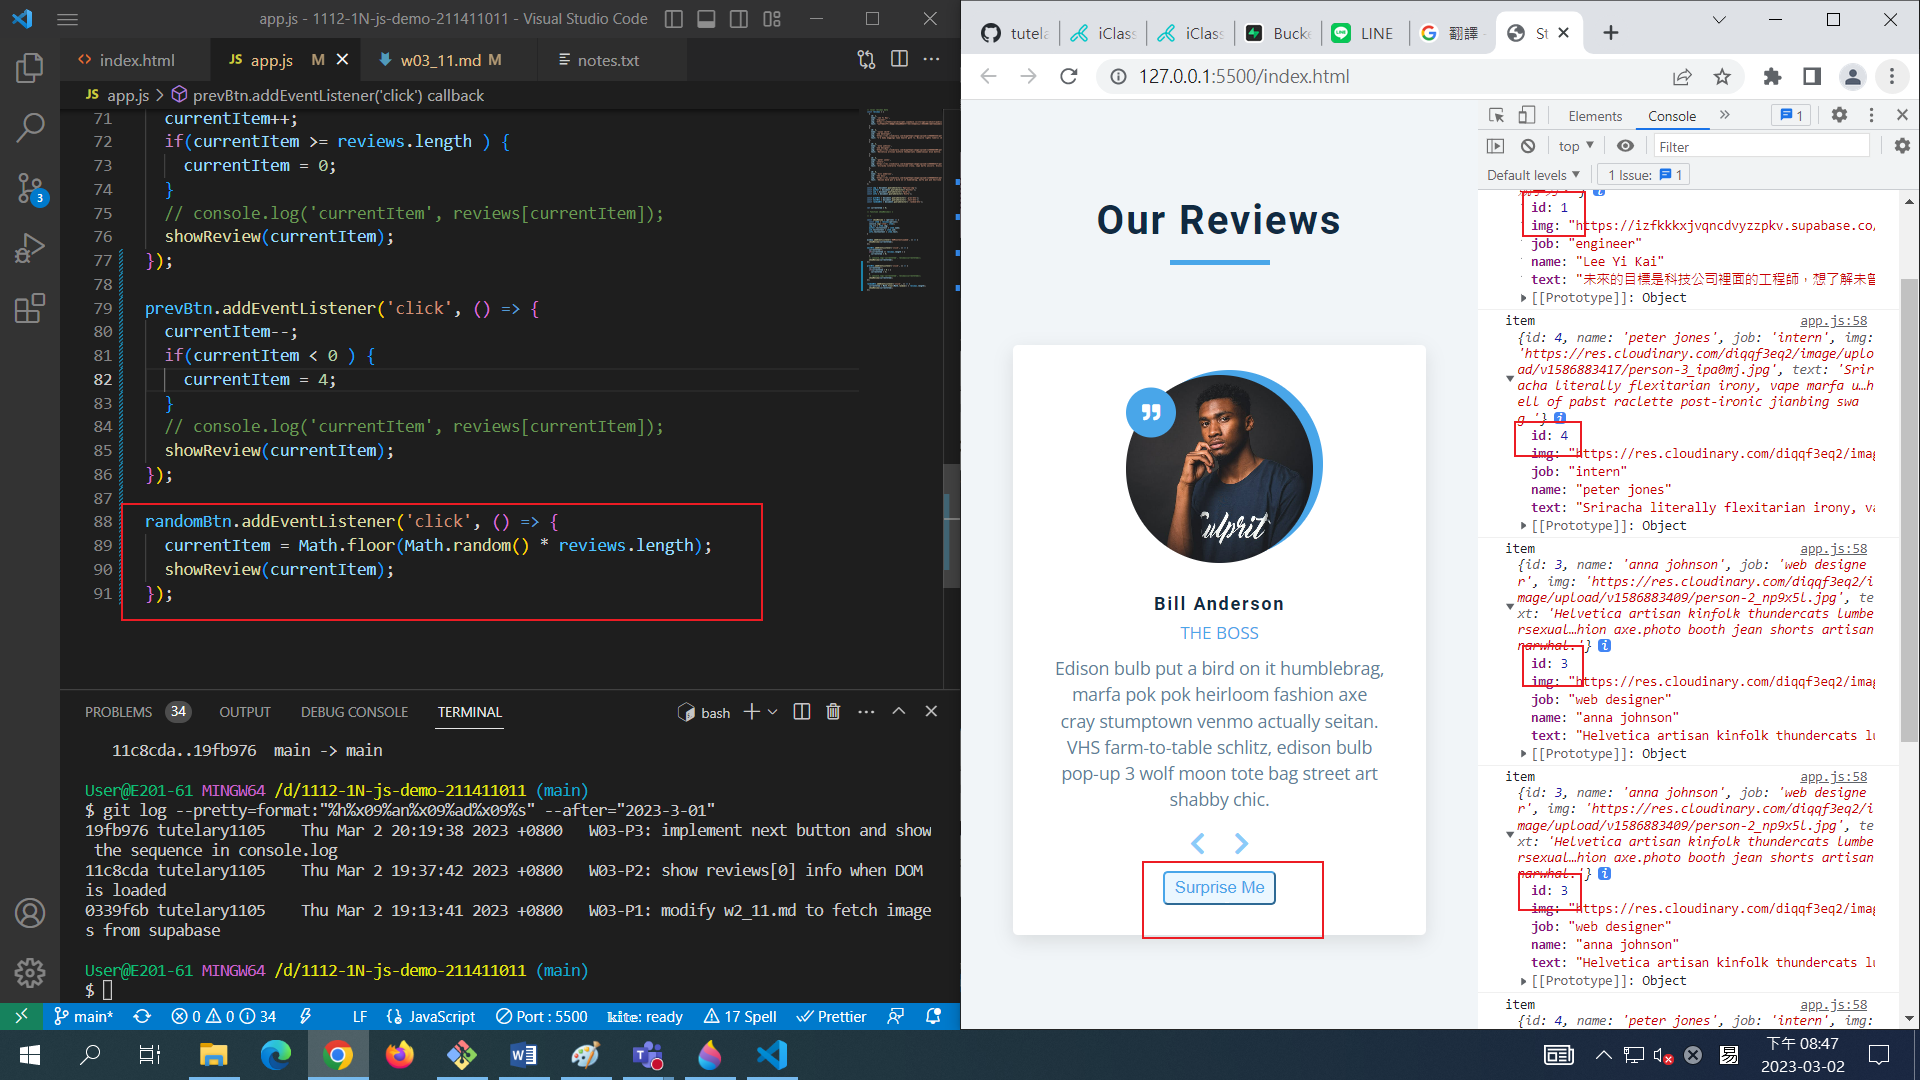
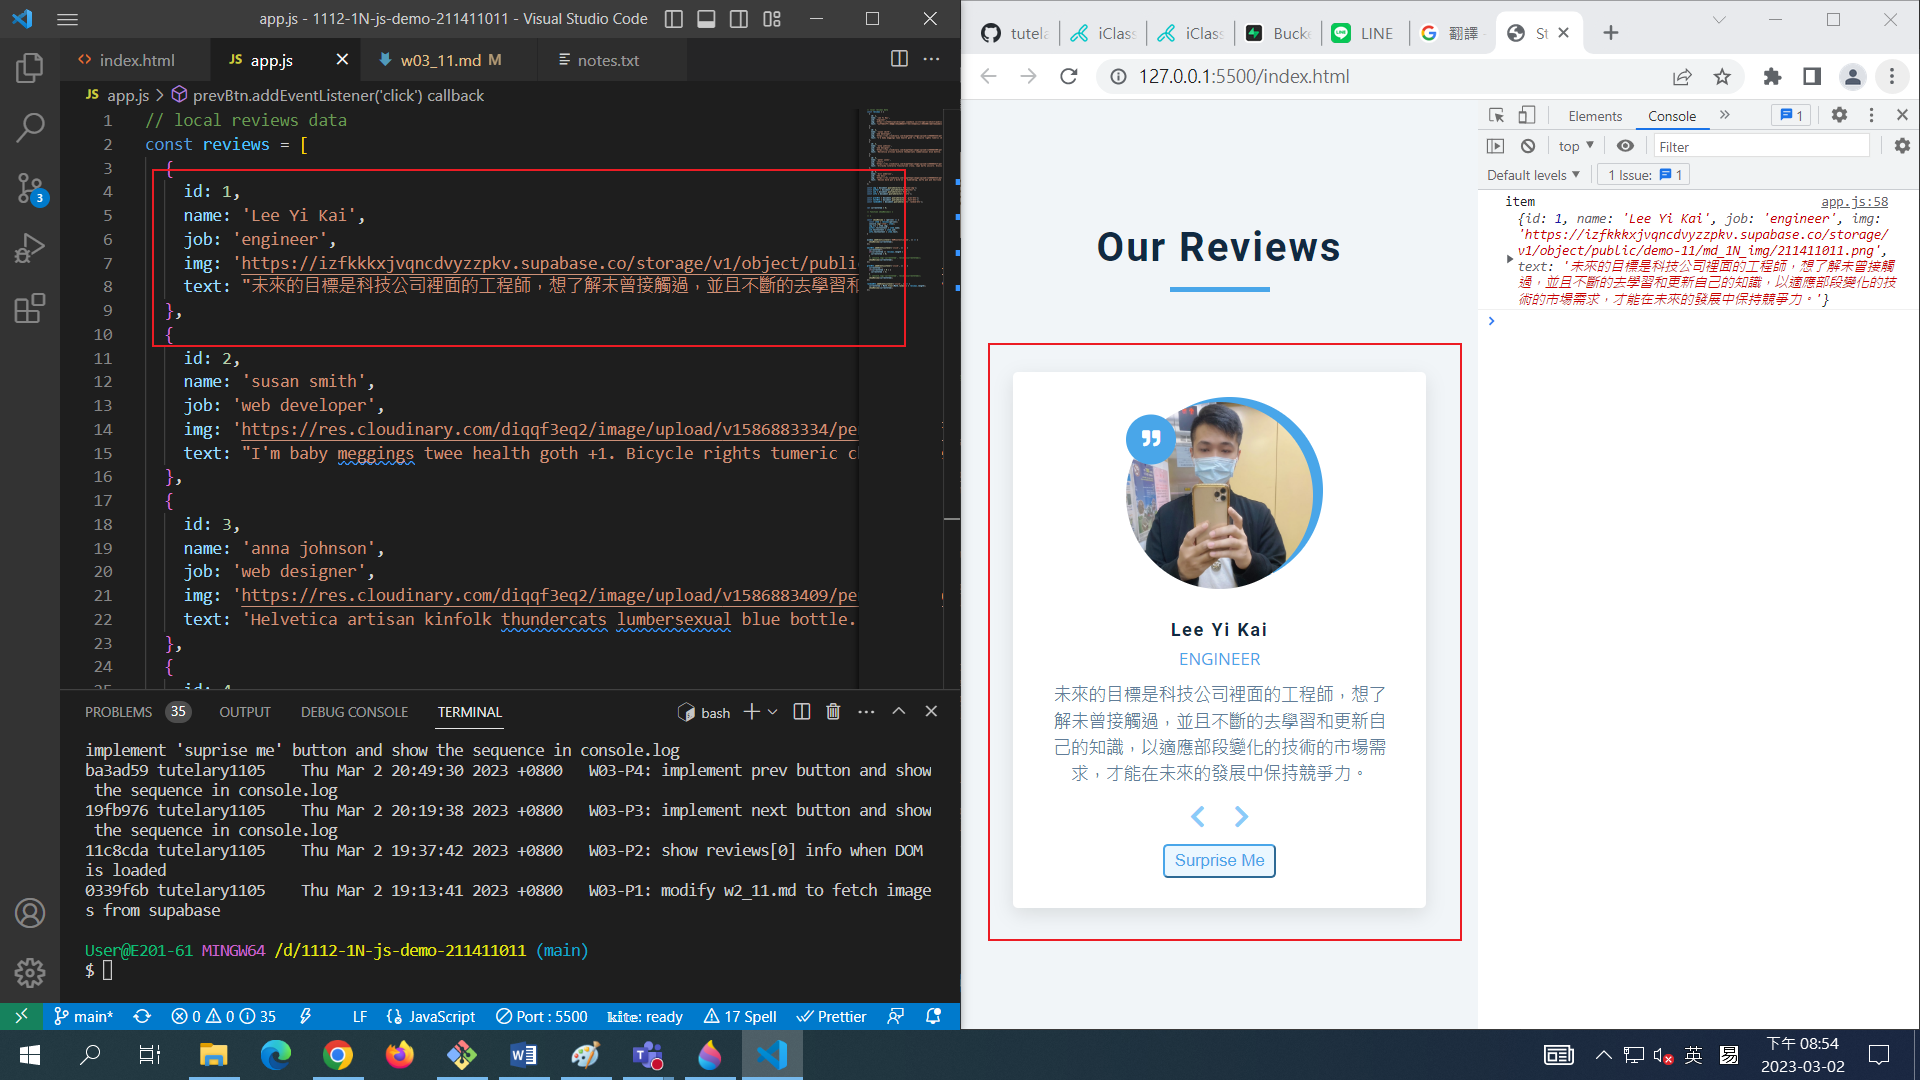
W03-P6: add your info as reviews[0] and show it

diff --git a/demo/md/w03/w03_11.md b/demo/md/w03/w03_11.md
@@ -37,8 +37,12 @@ ba3ad59 tutelary1105    Thu Mar 2 20:49:30 2023 +0800   W03-P4: implement prev b
 ![w03-p5.png](https://izfkkkxjvqncdvyzzpkv.supabase.co/storage/v1/object/public/demo-11/md_1N_img/w03-p5.png)
 
 ```
-
+5d2e869 tutelary1105    Thu Mar 2 20:52:16 2023 +0800   W03-P5: implement 'suprise me' button and show the sequence in console.log
 ```
+
+### W03-P6: add your info as reviews[0] and show it
+
+![w03-p6.png](https://izfkkkxjvqncdvyzzpkv.supabase.co/storage/v1/object/public/demo-11/md_1N_img/w03-p6.png)
 
 ### W03-logs
 
